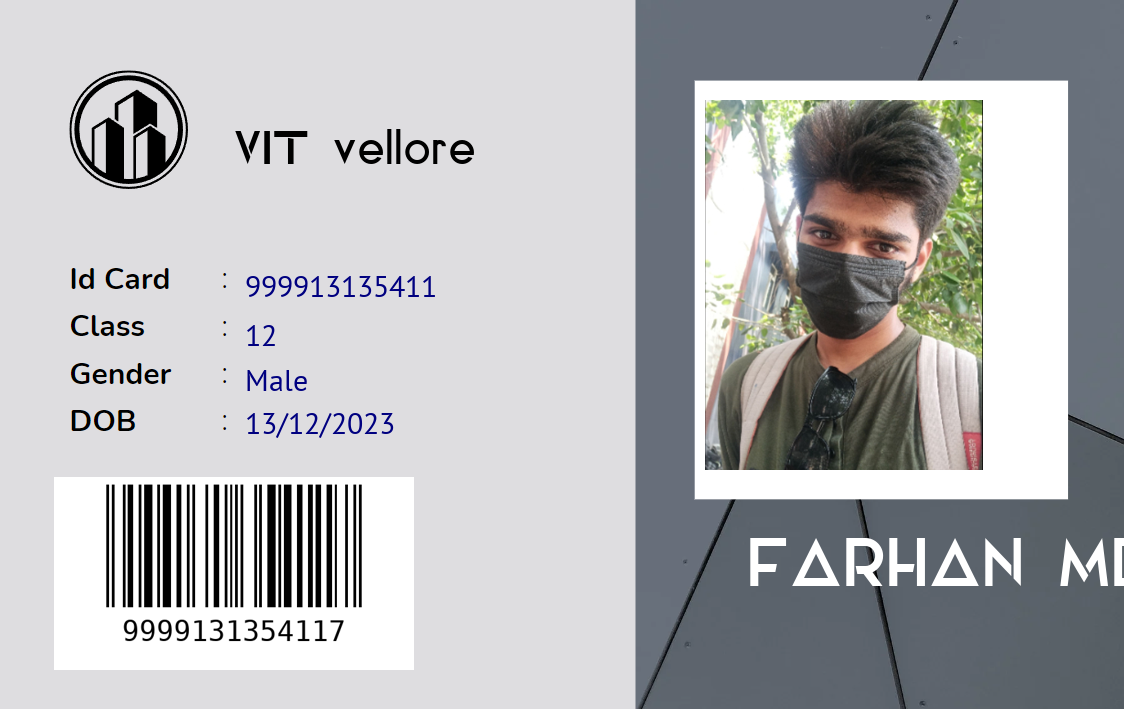
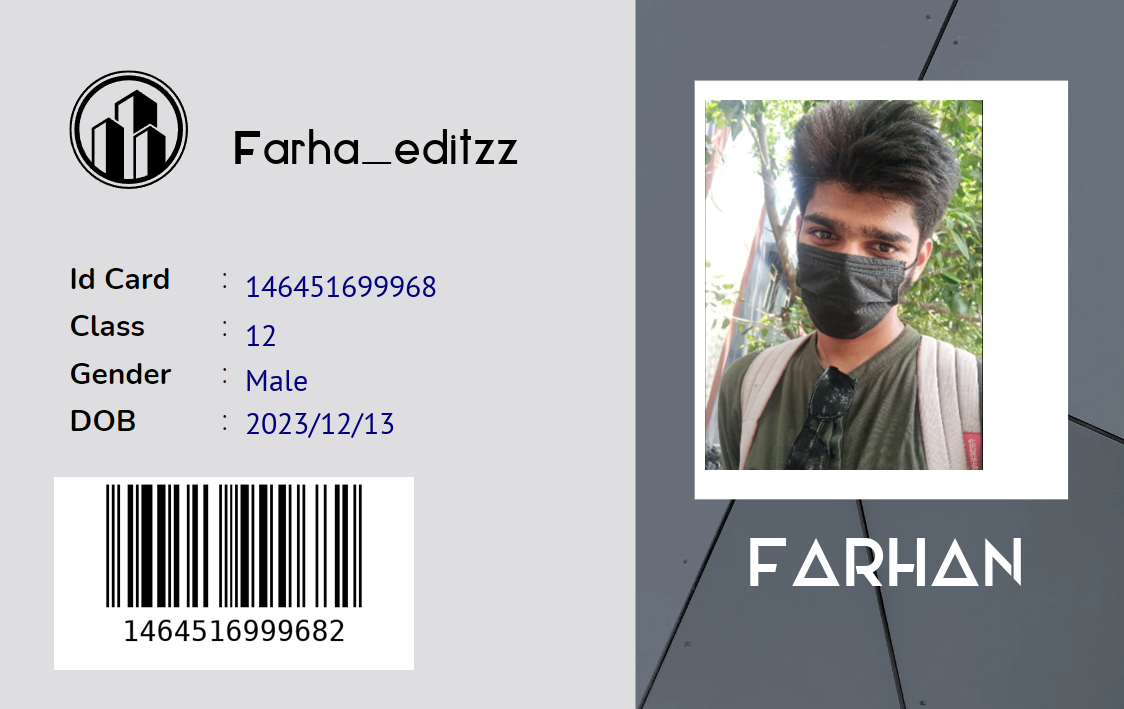
sql2

diff --git a/sample/sample11/main2.py b/sample/sample11/main2.py
@@ -1,4 +1,7 @@
 import mysql.connector as mysqlcon
+import random
+
+#-=-=-=-=-=-=-=-=-=-=-=-=-=-=-=-=-=-=-=-=-=-=-=-=-=-=-=-=-=-=-=-=-=-=-=-=-=-=-=-=-=-=-=-=#
 con = mysqlcon.connect(user = "root", password = "6389", host = "localhost")
 cur = con.cursor()
 q1 = "show databases"
@@ -13,12 +16,151 @@ else:
     cur.execute(q2)
 print(data)
 
-q3 = "show tables"
-q4 = "create table stud_data (roll_no int(5) primary key, name varchar(40), class gender varchar(6), dob date)"
+q3 = "use idcards_data"
+cur.execute(q3)
+
+q4 = "show tables"
+cur.execute(q4)
 data2 = cur.fetchall()
+print(data2)
+
+q5 = "create table stud_data (roll_no int(5) primary key, name varchar(40), class int(2), gender varchar(6), dob date)"
 t = ("stud_data",)
 if t in data2:
     pass
 else:
-    cur.execute(q4)
+    cur.execute(q5)
+
+
+n = int(input("Enter number of records to input: "))
+for i in range(n) :
+        name = input("Enter name: ")
+        clas = int(input("Enter class: "))
+        gender = input("Enter gender(M/F)")
+        if gender == "M":
+            gender = "Male"
+        elif gender == "F":
+            gender = "Female"
+        else:
+            print("Enter a valid gender(M/F)")
+            
+        dob = input("Enter Date of Birth: ")
+        roll_no = random.randint(100000,999999)
+
+        q6 = "INSERT INTO stud_data VALUES (%s, %s, %s, %s, %s)"
+        values = (roll_no, name, clas, gender, dob)
+        cur.execute(q6, values)
+print(n," students data successfully entered.")
+con.commit()
+
+
+
+
+
+
+
+#-=-=-=-=-=-=-=-=-=-=-=-=-=-=-=-=-=-=-=-=-=-=-=-=-=-=-=-=-=-=-=-=-=-=-=-=-=-=-=-=-=-=-=-=-=-=-#
+#for taking out data
+
+
+q7 = "select roll_no from stud_data"
+cur.execute(q7)
+rno = cur.fetchall()
+
+q8 = "select name from stud_data"
+cur.execute(q8)
+nm = cur.fetchall()
+
+q9 = "select class from stud_data"
+cur.execute(q9)
+cls = cur.fetchall()
+
+q10 = "select dob from stud_data"
+cur.execute(q10)
+db = cur.fetchall()
+
+q11 = "select gender from stud_data"
+cur.execute(q11)
+gdr = cur.fetchall()
+print(rno, nm, cls, db, gdr)
+
+
+
+#-=-=-=-=-=-=-=-=-=-=-=-=-=-=-=-=-=-=-=-=-=-=-=-=-=-=-=-=-=-=-=-=-=-=-=-=-=-=-=-=-=-=-=-=-=-=-#
+
+
+from PIL import Image, ImageDraw, ImageFont
+from barcode import EAN13_GUARD
+from barcode.writer import ImageWriter
+
+
+inst = input("Enter name of institution: ")
+
+
+#fonts
+fnt_name = ImageFont.truetype(r"D:\ID card generator\ID-card-generator-csproject\sample\sample11\Elianto-Regular.ttf", 65)
+fnt_inst = ImageFont.truetype(r"D:\ID card generator\ID-card-generator-csproject\sample\sample11\Elianto-Regular.ttf", 45)
+fnt_rest = ImageFont.truetype(r"D:\ID card generator\ID-card-generator-csproject\sample\sample11\PTS55F.ttf",30)
+
+img = Image.open(r'D:\ID card generator\ID-card-generator-csproject\sample\sample11\template.png')
+draw = ImageDraw.Draw(img)
+
+
+
+
+#For name
+for i in range(0,n):
+
+    #For institution
+    draw.text(xy=(233,130),
+              text = inst,
+              fill=(0,0,0),
+              font = fnt_inst)
+
+    name_text = nm[i][0]
+    draw.text(xy=(747,537), 
+              text=name_text,
+              fill=(255,255,255),
+              font=fnt_name)
     
+    # UID
+    num_text = rno[i][0]
+    draw.text(xy=(245,266),
+            text = str(num_text),
+            font = fnt_rest,
+            fill = (0,0,128))
+    img.show()
+
+#barcode
+
+# barcode_path = r"D:\ID card generator\ID-card-generator-csproject\sample\sample11\barcodes\{}".format(k[4])
+
+
+# my_code = EAN13(num_text, writer=ImageWriter()) 
+# my_code.save(barcode_path)
+
+
+
+
+
+
+
+
+
+
+
+
+
+
+
+
+
+
+
+
+
+
+
+
+
+con.close()

diff --git a/sample/sample11/main.py b/sample/sample11/main.py
@@ -51,7 +51,7 @@ draw.text(xy=(747,537),
           font=fnt_name)
 
 # UID
-num = str(random.randint(10000,99999999))
+num = str(random.randint(100000000000,999999999999))
 draw.text(xy=(245,266),
           text = str(num),
           font = fnt_rest,
